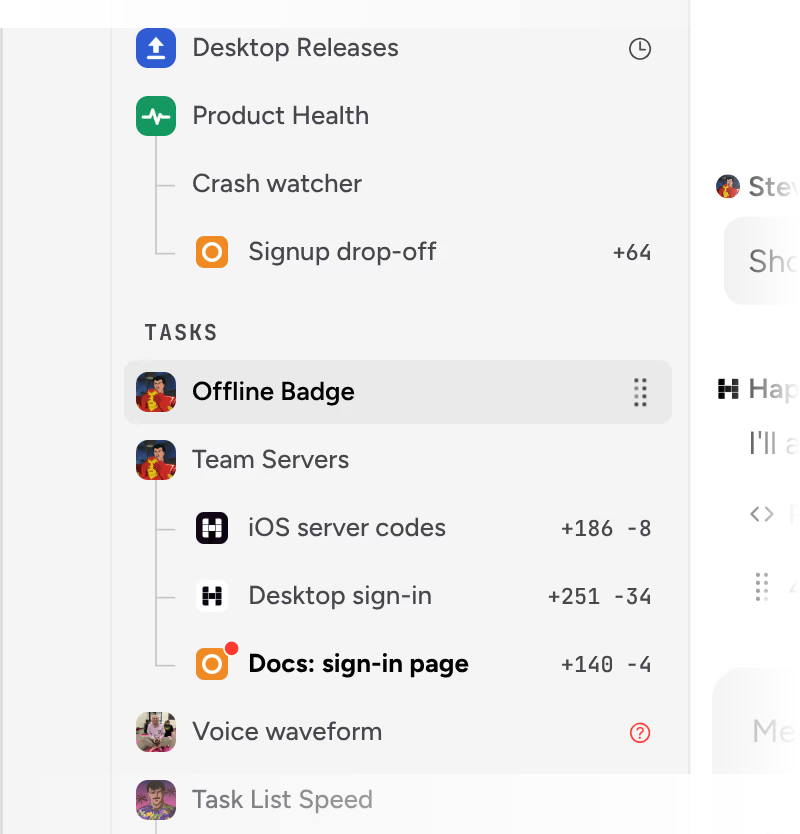
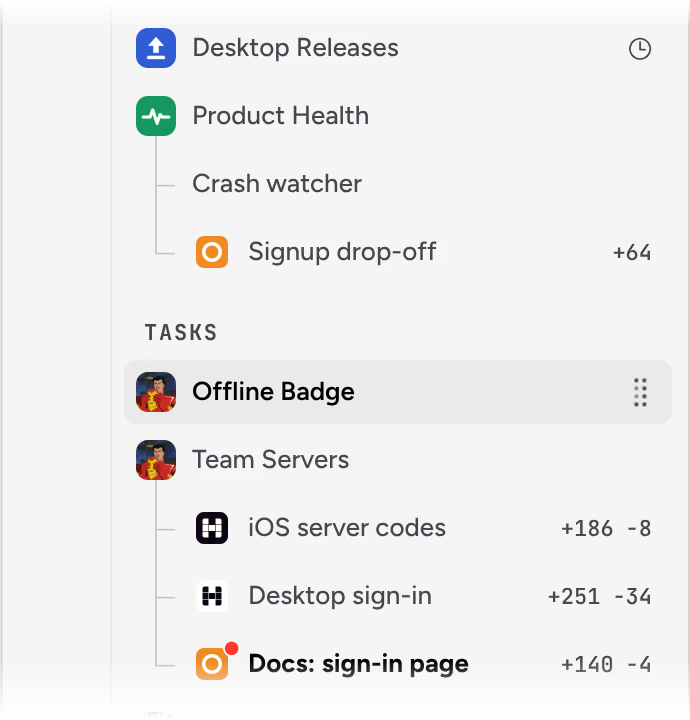
Cards: Welcome and Tasks end crisp on the sidebar's divider

diff --git a/notes/og/cards.py b/notes/og/cards.py
@@ -49,8 +49,9 @@ CARD_FIGURES = {
     # The sidebar from the homepage demo (public/video/happy-one/v22/desktop.mp4, first frame).
     "/chief-of-staff/": "/__figures/chief-of-staff-sidebar.png",
     # A docs still's first picture on a phone is its phone cut, too tall and narrow for a card: a
-    # 400×417 app px region of its light desktop cut instead, 1.3 card px per app px, its real edges
-    # drawn and its cut edges dissolving (welcome-window adds the traffic lights its chrome reserves).
+    # region of its light desktop cut instead that fills the figure box, its real edges drawn and its
+    # cut edges dissolving. A sidebar-plus-pane cut ends crisp on the sidebar's divider, never on a
+    # half-shown pane; welcome-window adds the traffic lights its chrome reserves.
     # notes/og/still_figures.sh makes them.
     "/welcome/": "/__figures/welcome-window.png",
     "/tasks/": "/__figures/tasks-teammate.png",
